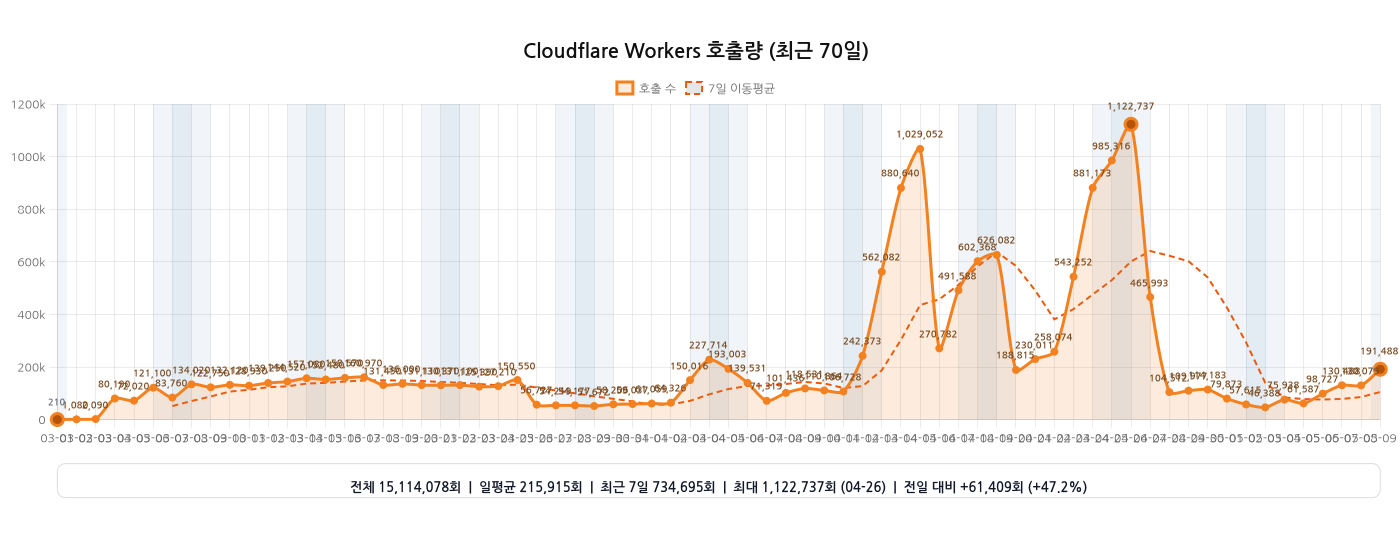
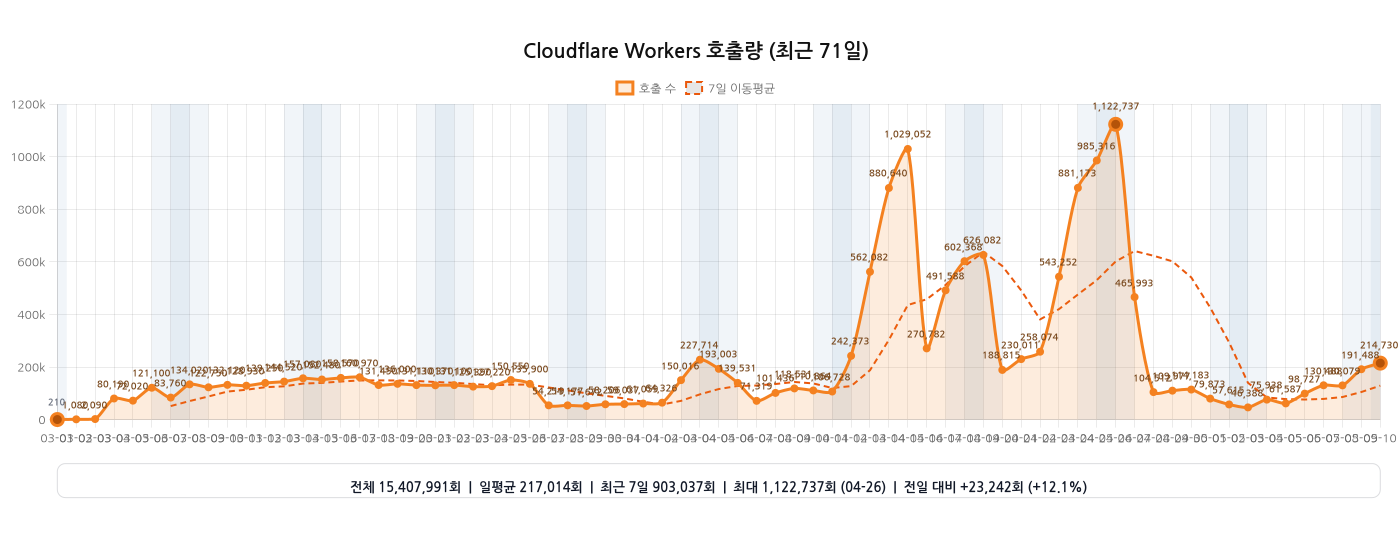
chore: 워커 호출량 그래프 자동 갱신

diff --git a/README.md b/README.md
@@ -18,11 +18,11 @@
 [![Coverage](https://github.com/hmmhmmhm/daiso-mcp/actions/workflows/coverage.yml/badge.svg?branch=main)](https://github.com/hmmhmmhm/daiso-mcp/actions/workflows/coverage.yml)
 
 <!-- WORKERS_INVOCATIONS_CHART:START -->
-<h3>Cloudflare Workers 호출량 (2026-03-01 ~ 2026-05-09, 70일)</h3>
+<h3>Cloudflare Workers 호출량 (2026-03-01 ~ 2026-05-10, 71일)</h3>
 
-<img src="./assets/analytics/workers-invocations.png?v=2026-05-09T15:39:42.825Z" alt="Cloudflare Workers 호출량 그래프 (2026-03-01 ~ 2026-05-09)" width="100%">
+<img src="./assets/analytics/workers-invocations.png?v=2026-05-10T15:40:10.048Z" alt="Cloudflare Workers 호출량 그래프 (2026-03-01 ~ 2026-05-10)" width="100%">
 
-<sub>기준 워커: <code>daiso-mcp</code> · 마지막 갱신: 2026-05-10 00:39 KST</sub>
+<sub>기준 워커: <code>daiso-mcp</code> · 마지막 갱신: 2026-05-11 00:40 KST</sub>
 
 <!-- WORKERS_INVOCATIONS_CHART:END -->
 
